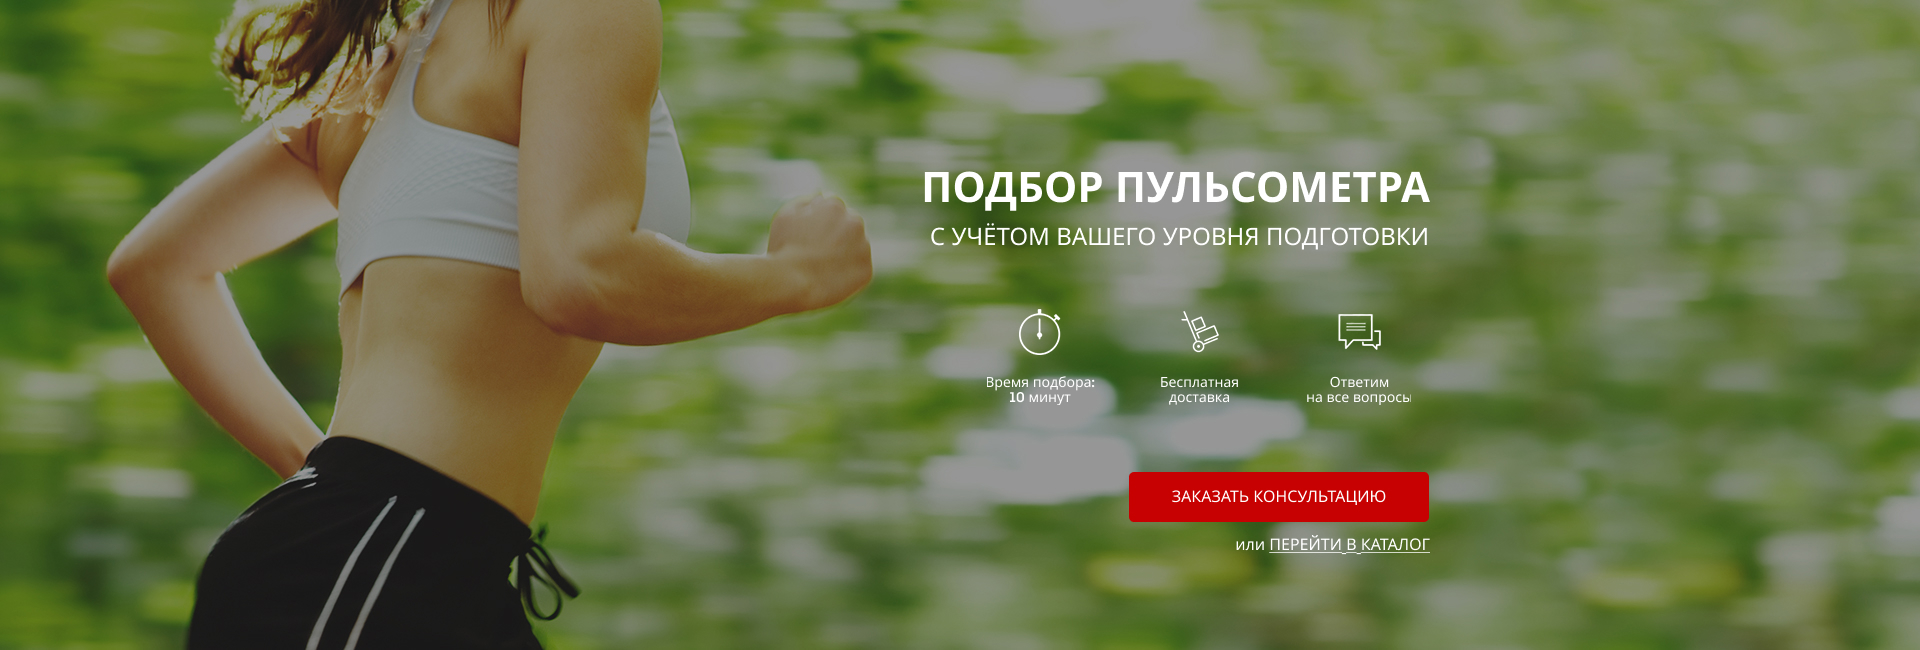
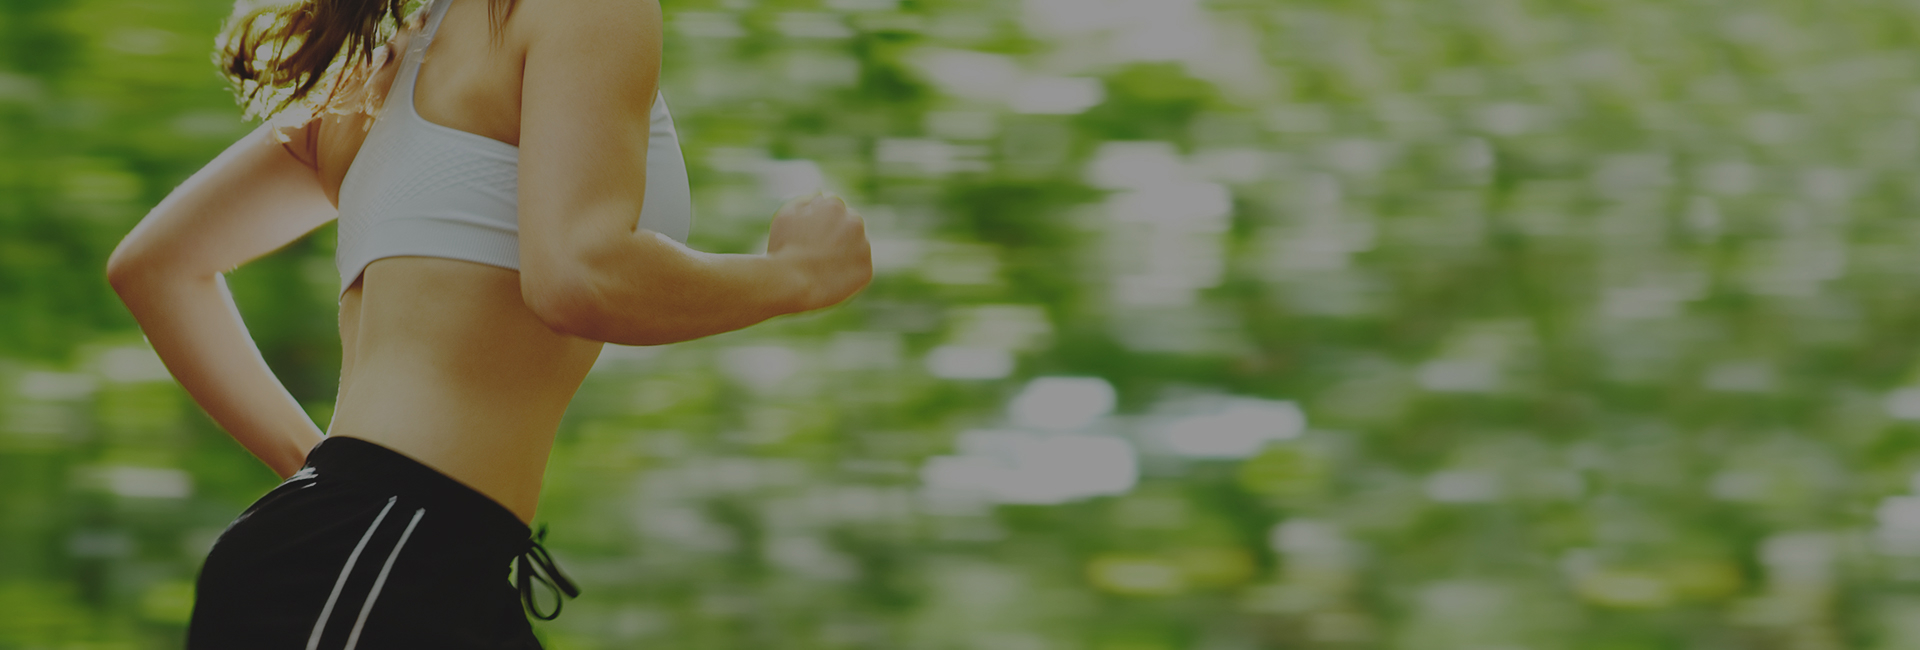
promo section done

diff --git a/src/index.html b/src/index.html
@@ -11,7 +11,50 @@
 </head>
 <body>
     <div class="promo">
-        
+        <div class="container">
+            <header class="header">
+                <a href="#" class="header-logo">
+                    <img src="img/logo.svg" alt="logo">
+                </a>
+                <div class="header__official">
+                    Официальный представитель
+                    <span>Garmin, Polar, Suunto</span>
+                </div>
+                <div class="header__contacts">
+                    <a href="tel:+74999228974" class="header__phone">+7 (499) 922-89-74</a>
+                    <button class="button">заказать звонок</button>
+                </div>
+            </header>
+            
+            <div class="promo__wrapper">
+                <h1 class="promo__header">Подбор пульсометра</h1>
+                <h2 class="promo__subheader">с учётом Вашего уровня подготовки</h2>
+
+                <div class="promo__icons">
+                    <div class="promo__icon">
+                        <img src="icons/main/main_timer.svg" alt="main_timer">
+                        Время подбора:
+                        10 минут
+                    </div>
+                    <div class="promo__icon">
+                        <img src="icons/main/main_delivery.svg" alt="main_delivery">
+                        Бесплатная
+                        доставка
+                    </div>
+                    <div class="promo__icon">
+                        <img src="icons/main/main_messages.svg" alt="main_messages">
+                        Ответим
+                        на все вопросы
+                    </div>
+                </div>
+
+                <button class="button button_main">заказать кОНСУЛЬТАЦИЮ</button>
+                <div class="promo__link">
+                    или
+                    <a href="#">ПЕРЕЙТИ В КАТАЛОГ</a>
+                </div>
+            </div>
+        </div>
     </div>
 </body>
 </html>

diff --git a/src/css/style.min.css b/src/css/style.min.css
@@ -1,1 +1,1 @@
-*{font-family:"Museo Sans Cyrl",sans-serif}.container{max-width:950px;margin:0 auto}.promo{width:1000px}
+*{font-family:"Museo Sans Cyrl",sans-serif}.container{max-width:950px;margin:0 auto}.promo{min-height:650px;padding:21px 0 93px 0;background:url(../../img/bg/main_bg.jpg) center center/cover no-repeat}.promo__wrapper{display:flex;flex-direction:column;align-items:flex-end;margin-top:90px}.promo__header{font-weight:700;font-size:42px;text-transform:uppercase;color:#fff;line-height:42px}.promo__subheader{margin-top:17px;font-weight:500;font-size:24px;line-height:24px;text-transform:uppercase;color:#fff}.promo__icons{margin-top:65px;width:425px;display:flex;justify-content:space-between}.promo__icon{max-width:108px;text-align:center;font-weight:500;font-size:14px;color:#fff}.promo__icon img{display:block;margin:0 auto;margin-bottom:20px}.promo__link{margin-top:18px;font-weight:500;font-size:16px;color:#fff}.promo__link a{color:#fff;text-transform:uppercase;text-decoration:underline}.header{display:flex;justify-content:space-between;align-items:center}.header__logo{width:250px}.header__logo img{width:100%}.header__official{font-weight:500;font-size:12px;color:#fff;text-align:center}.header__official span{display:block;font-size:18px}.header__phone{display:block;font-weight:700;font-size:18px;color:#fff}.header__phone:hover{color:#fff;text-decoration:none}.header__contacts{display:flex;flex-direction:column;align-items:flex-end}.button{width:150px;height:30px;border-radius:5px;background:#c70101;border:none;font-weight:500;font-size:12px;text-transform:uppercase;color:#fff}.button_main{margin-top:67px;width:303px;height:54px;font-size:16px}

diff --git a/src/sass/blocks/_promo.scss b/src/sass/blocks/_promo.scss
@@ -1,0 +1,55 @@
+.promo {
+    min-height: 650px;
+    padding: 21px 0 93px 0;
+    background: url(../../img/bg/main_bg.jpg) center (center/cover) no-repeat;
+    &__wrapper {
+        display: flex;
+        flex-direction: column;
+        align-items: flex-end;
+        margin-top: 90px;
+    }
+    &__header {
+        font-weight: 700;
+        font-size: 42px;
+        text-transform: uppercase;
+        color: #FFFFFF;
+        line-height: 42px;
+    }
+    &__subheader {
+        margin-top: 17px;
+        font-weight: 500;
+        font-size: 24px;
+        line-height: 24px;
+        text-transform: uppercase;
+        color: #FFFFFF;
+    }
+    &__icons {
+        margin-top: 65px;
+        width: 425px;
+        display: flex;
+        justify-content: space-between;
+    }
+    &__icon {
+        max-width: 108px;
+        text-align: center;
+        font-weight: 500;
+        font-size: 14px;
+        color: #FFFFFF;
+        img {
+            display: block;
+            margin: 0 auto;
+            margin-bottom: 20px;
+        }
+    }
+    &__link {
+        margin-top: 18px;
+        font-weight: 500;
+        font-size: 16px;
+        color: #FFFFFF;
+        a {
+            color: #FFFFFF;
+            text-transform: uppercase;
+            text-decoration: underline;
+        }
+    }
+}

diff --git a/src/sass/blocks/_header.scss b/src/sass/blocks/_header.scss
@@ -1,0 +1,36 @@
+.header {
+    display: flex;
+    justify-content: space-between;
+    align-items: center;
+    &__logo {
+        width: 250px;
+        img {
+            width: 100%;
+        }
+    }
+    &__official {
+        font-weight: 500;
+        font-size: 12px;
+        color: #FFFFFF;
+        text-align: center;
+        span {
+            display: block;
+            font-size: 18px;
+        }
+    }
+    &__phone {
+        display: block;
+        font-weight: 700;
+        font-size: 18px;
+        color: #FFFFFF;
+        &:hover {
+            color: #FFFFFF;
+            text-decoration: none;
+        }
+    }
+    &__contacts {
+        display: flex;
+        flex-direction: column;
+        align-items: flex-end;
+    }
+}

diff --git a/src/sass/blocks/_buttons.scss b/src/sass/blocks/_buttons.scss
@@ -1,0 +1,17 @@
+.button {
+    width: 150px;
+    height: 30px;
+    border-radius: 5px;
+    background: $main-color;
+    border: none;
+    font-weight: 500;
+    font-size: 12px;
+    text-transform: uppercase;
+    color: #FFFFFF;
+    &_main {
+        margin-top: 67px;
+        width: 303px;
+        height: 54px;
+        font-size: 16px;
+    }
+}

diff --git a/src/sass/style.scss b/src/sass/style.scss
@@ -1,4 +1,4 @@
-// @import url(base/variables);
+@import "base/variables";
 * {
     font-family: 'Museo Sans Cyrl', sans-serif;
 }
@@ -6,7 +6,6 @@
     max-width: 950px;
     margin: 0 auto; 
 }
-
-.promo {
-    width: 1000px;
-}
+@import "blocks/promo";
+@import "blocks/header";
+@import "blocks/buttons";
